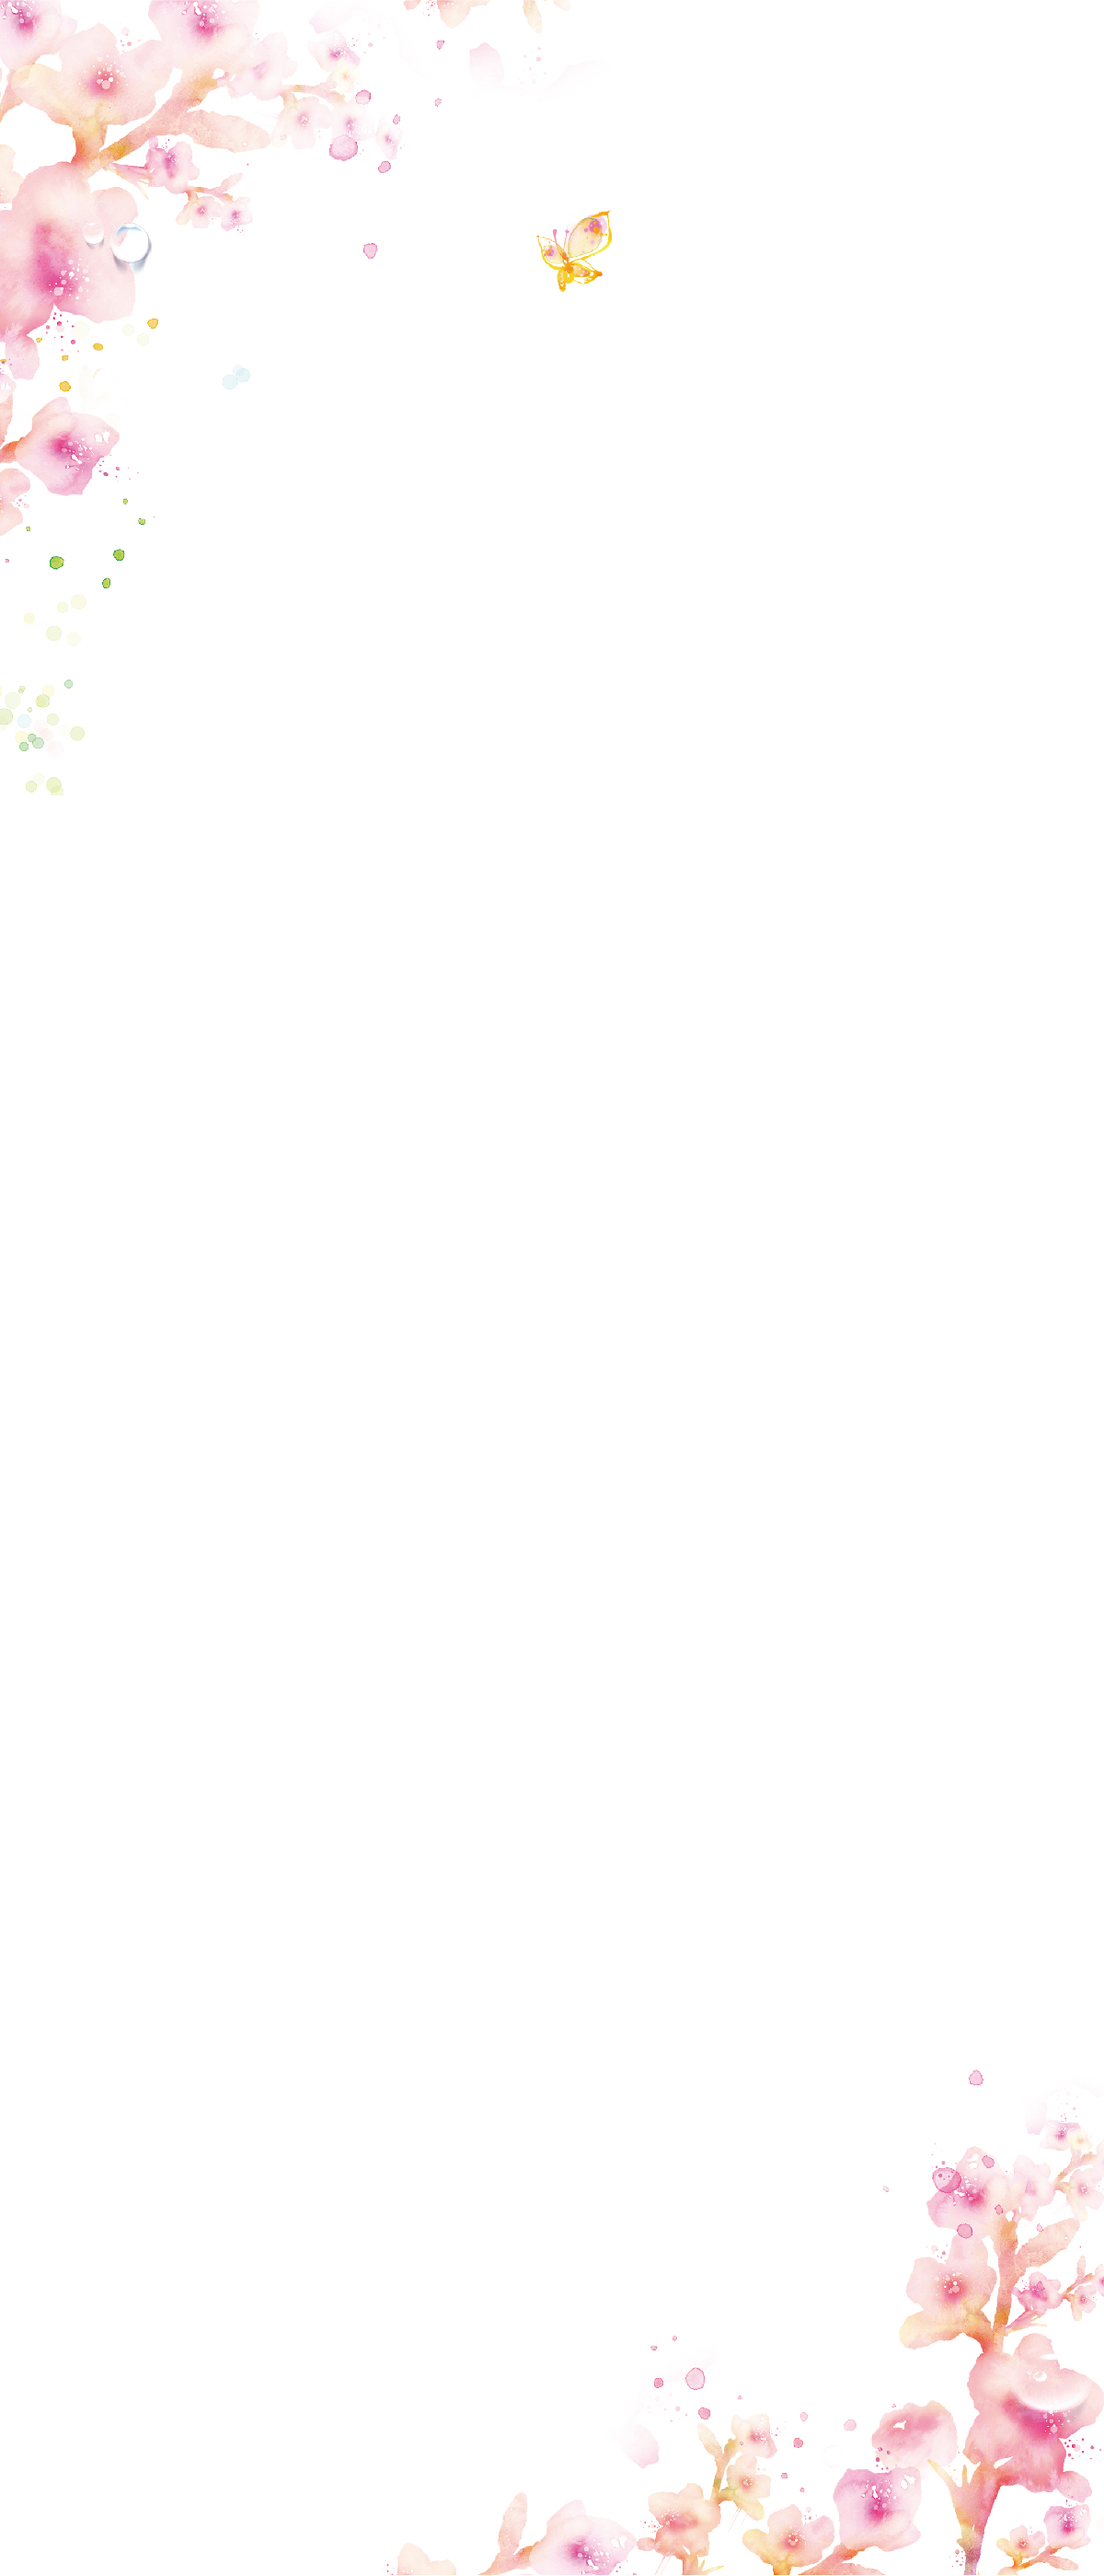
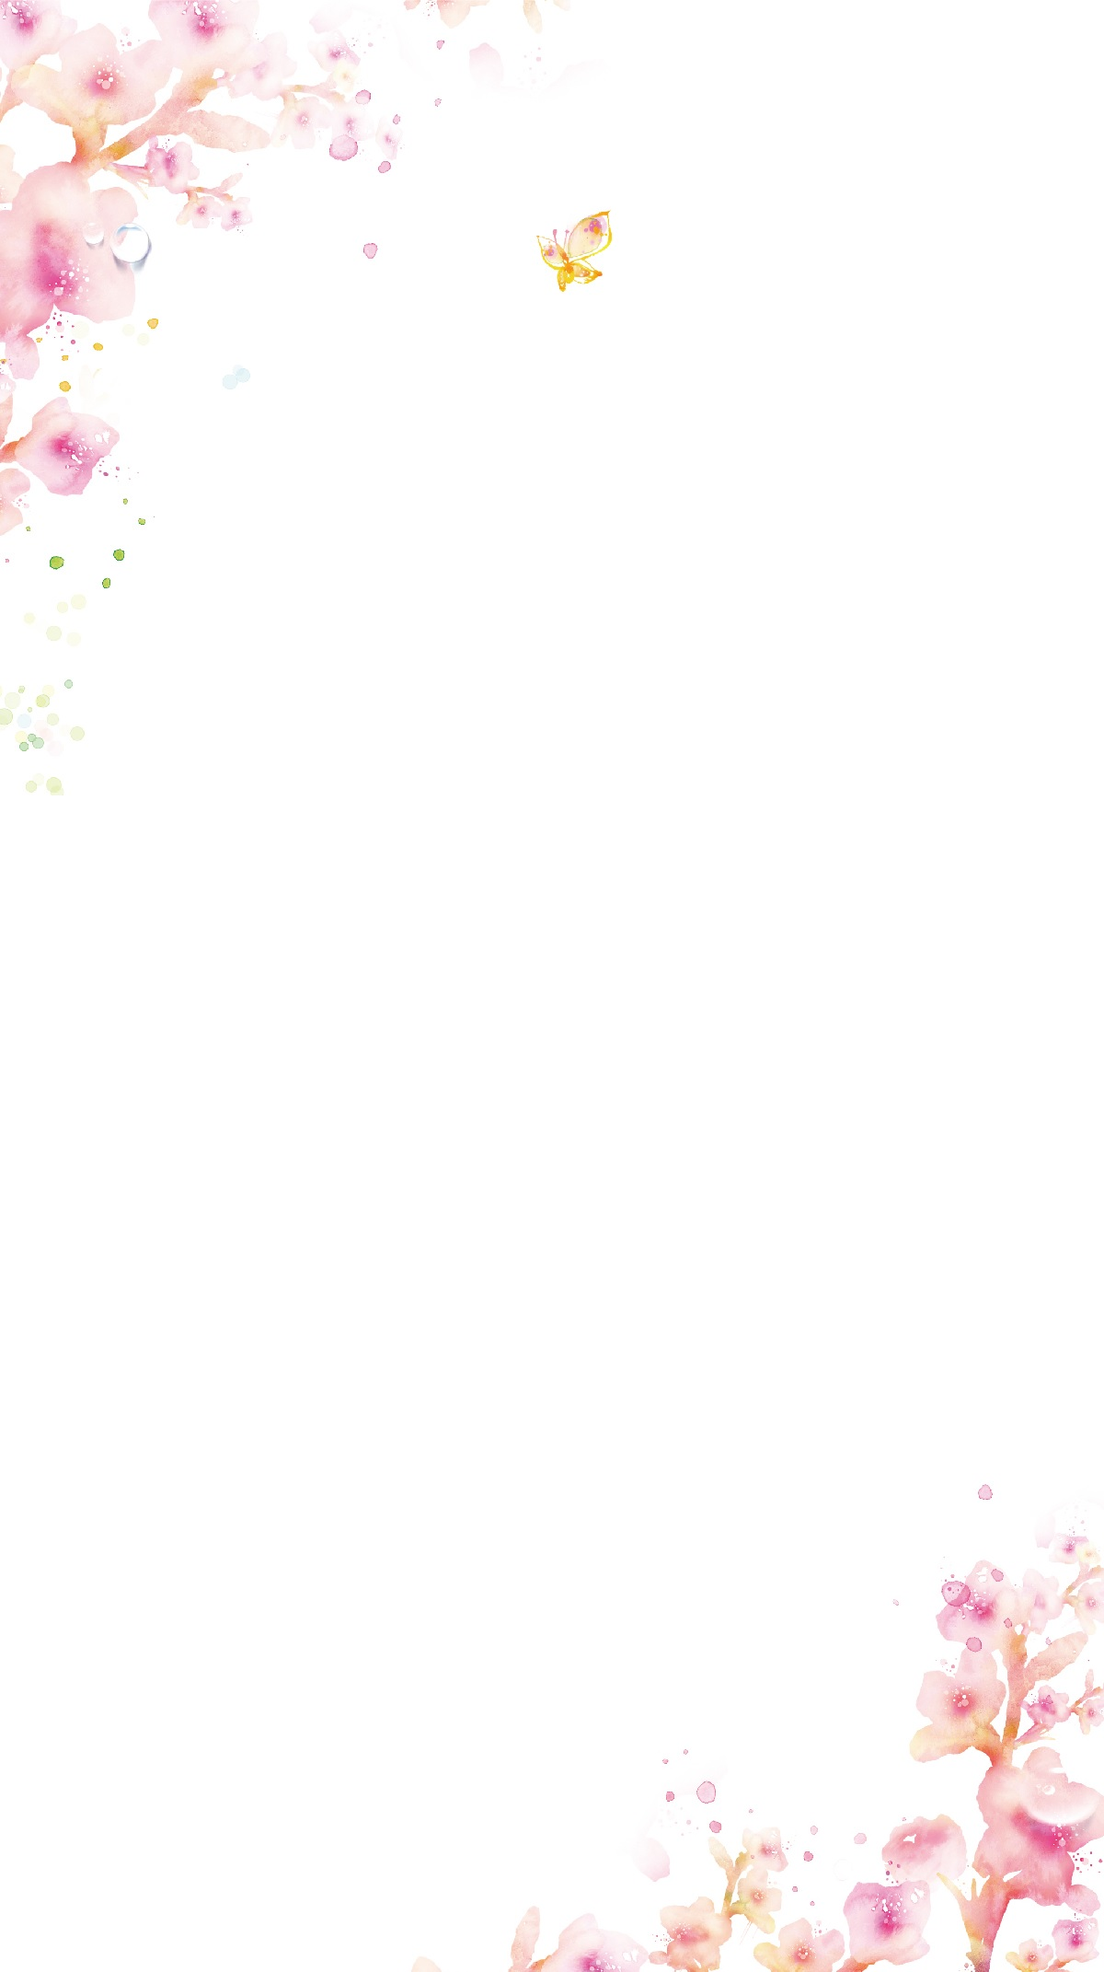
ver4.1 add "go back" button

diff --git a/css/style.css b/css/style.css
@@ -329,6 +329,7 @@ form .error input, form .error textarea {
 #home-bg {
 	background-image: url(../img/home-bg.jpg);
 	background-repeat: no-repeat;
+	background-position: bottom;
 	position: relative;
     z-index: -1;
 }
@@ -1034,111 +1035,33 @@ main img {
 
 
 /*** go back to top ***/
-@-webkit-keyframes AnimationName {
-  0% {
-    background-position: 0% 50%;
-  }
-  50% {
-    background-position: 100% 50%;
-  }
-  100% {
-    background-position: 0% 50%;
-  }
+#scroll-top {
+	position: fixed;
+    right: 10px;
+    bottom: 10px;
+    margin: 0;
+    text-decoration: none;
 }
-@-moz-keyframes AnimationName {
-  0% {
-    background-position: 0% 50%;
-  }
-  50% {
-    background-position: 100% 50%;
-  }
-  100% {
-    background-position: 0% 50%;
-  }
+#scroll-top button {
+	width: 50px;
+    height: 50px;
+    outline: none;
+    cursor: pointer;
+    border-radius: 100%;
+    border: solid 5px #FFEBEE;
+    background-color: #eeafb8;
+    color: #fff;
+    box-shadow: 0 0 1px #333;
+    display: block;
+    font-family: tahoma;
+    font-size: 11px;
+    -webkit-transition: 1s;
+    -moz-transition: 1s;
+    transition: 1s;
 }
-@keyframes AnimationName {
-  0% {
-    background-position: 0% 50%;
-  }
-  50% {
-    background-position: 100% 50%;
-  }
-  100% {
-    background-position: 0% 50%;
-  }
-}
-* {
-  box-sizing: border-box;
-}
-
-
-
-.m-backtotop {
-  -webkit-transition: all 0.3s ease-in-out;
-  -moz-transition: all 0.3s ease-in-out;
-  -ms-transition: all 0.3s ease-in-out;
-  -o-transition: all 0.3s ease-in-out;
-  transition: all 0.3s ease-in-out;
-  position: fixed;
-  bottom: -50px;
-  right: 20px;
-  width: 50px;
-  height: 50px;
-  background: #222;
-  border-radius: 25px;
-  text-align: center;
-  border: 2px solid #fff;
-  box-shadow: 0 2px 3px rgba(0, 0, 0, 0.1);
-  opacity: 0;
-  overflow: hidden;
-  color: #fff;
-}
-.m-backtotop.active {
-  bottom: 15px;
-  opacity: 1;
-}
-.m-backtotop > div {
-  -webkit-transition: all 0.3s ease-in-out;
-  -moz-transition: all 0.3s ease-in-out;
-  -ms-transition: all 0.3s ease-in-out;
-  -o-transition: all 0.3s ease-in-out;
-  transition: all 0.3s ease-in-out;
-}
-.m-backtotop > div.arrow {
-  position: absolute;
-  top: 50%;
-  left: 50%;
-  transform: translateY(-50%) translateX(-50%);
-  opacity: 1;
-}
-.m-backtotop > div.text {
-  font-size: 5px;
-  font-size: 0.5rem;
-  line-height: 10px;
-  text-transform: uppercase;
-  font-weight: 900;
-  font-family: "Open Sans", sans-serif;
-  position: absolute;
-  left: 50%;
-  top: 50%;
-  transform: translateY(50%) translateX(-50%);
-  opacity: 0;
-  margin-top: 1px;
-}
-.m-backtotop:hover {
-  transform: scale(1.1);
-  bottom: 20px;
-  cursor: pointer;
-  background: black;
-  box-shadow: 0 10px 5px rgba(0, 0, 0, 0.1);
-}
-.m-backtotop:hover > div.arrow {
-  transform: translateY(-150%) translateX(-50%);
-  opacity: 0;
-}
-.m-backtotop:hover > div.text {
-  transform: translateY(-50%) translateX(-50%);
-  opacity: 1;
+#scroll-top button:hover {
+    background-color: #eeafb8;
+    border-color: #ff3e3e;
 }
 
 /*** go back to top ***/

diff --git a/js/ScrolltoTop.js b/js/ScrolltoTop.js
@@ -1,26 +1,21 @@
-//Make sure the user has scrolled at least double the height of the browser
-var toggleHeight = $(window).outerHeight() * 2;
+$(document).ready(function(){
+	// hide #back-top first
+	$("#scroll-top").hide();
+	// fade in #back-top
+	$(function () {
+		$(window).scroll(function () {
+			if ($(this).scrollTop() > 100) {
+				$('#scroll-top').fadeIn();
+			} else {
+				$('#scroll-top').fadeOut();
+			}
+		});
+		// scroll body to 0px on click
+		$('#scroll-top button').click(function () {
+			$('body,html').animate({
+				scrollTop: 0
+			}, 800);
+		});
+	});
 
-$(window).scroll(function() {
-	if ($(window).scrollTop() > toggleHeight) {
-		//Adds active class to make button visible
-		$(".m-backtotop").addClass("active");
-		
-		//Just some cool text changes
-		$('h1 span').text('TA-DA! Now hover it and hit dat!')
-		
-	} else {
-		//Removes active class to make button visible
-		$(".m-backtotop").removeClass("active");
-		
-		//Just some cool text changes
-		$('h1 span').text('(start scrolling)')
-	}
-});
-
-
-//Scrolls the user to the top of the page again
-$(".m-backtotop").click(function() {
-	$("html, body").animate({ scrollTop: 0 }, "slow");
-	return false;
 });

diff --git a/lodging.html b/lodging.html
@@ -28,7 +28,7 @@
     </nav>
   </header>
   
-  <div id="lod-bg" class="animated fadeIn delay-3" style="animation-duration: 3s;">
+  <div id="lod-bg" class="animated fadeInUp delay-1s" style="animation-duration: 2s;">
     <div id="d0lodging"> 
       <p style="font-size: 36px; padding-top:50px; font-weight:500;">住宿推薦</p>
     </div>
@@ -139,7 +139,12 @@
       </div>
     </div>
   </div>
-
+  <a id="scroll-top" href="#top"><button>Top</button></a>
+  <script
+  src="https://code.jquery.com/jquery-3.3.1.min.js"
+  integrity="sha256-FgpCb/KJQlLNfOu91ta32o/NMZxltwRo8QtmkMRdAu8="
+  crossorigin="anonymous"></script>
+  <script src="js/ScrolltoTop.js"></script>
   <div class="clear"></div>
   <footer>
     <p>Taiwan Flower Viewing Spots</p>

diff --git a/home.html b/home.html
@@ -74,7 +74,12 @@
 	<div class="clear" style="margin:20px;"></div>
   </section>
   </div>
-  
+  <a id="scroll-top" href="#top"><button>Top</button></a>
+  <script
+  src="https://code.jquery.com/jquery-3.3.1.min.js"
+  integrity="sha256-FgpCb/KJQlLNfOu91ta32o/NMZxltwRo8QtmkMRdAu8="
+  crossorigin="anonymous"></script>
+  <script src="js/ScrolltoTop.js"></script>
   <footer>
     <p>Taiwan Flower Viewing Spots</p>
     <p>©All rights reserved.</p>

diff --git a/message.html b/message.html
@@ -143,7 +143,12 @@
       </div>
     </form>
   </div>
-  
+  <a id="scroll-top" href="#top"><button>Top</button></a>
+  <script
+  src="https://code.jquery.com/jquery-3.3.1.min.js"
+  integrity="sha256-FgpCb/KJQlLNfOu91ta32o/NMZxltwRo8QtmkMRdAu8="
+  crossorigin="anonymous"></script>
+  <script src="js/ScrolltoTop.js"></script>
   <footer>
     <p>Taiwan Flower Viewing Spots</p>
     <p>©All rights reserved.</p>

diff --git a/south.html b/south.html
@@ -134,7 +134,12 @@
  <div id="p04">
  </div>
  </div>
-  
+  <a id="scroll-top" href="#top"><button>Top</button></a>
+  <script
+  src="https://code.jquery.com/jquery-3.3.1.min.js"
+  integrity="sha256-FgpCb/KJQlLNfOu91ta32o/NMZxltwRo8QtmkMRdAu8="
+  crossorigin="anonymous"></script>
+  <script src="js/ScrolltoTop.js"></script>
   <div class="clear"></div>
   <footer>
     <p>Taiwan Flower Viewing Spots</p>

diff --git a/north.html b/north.html
@@ -130,6 +130,12 @@
   <div id="p04">
   </div>
   </div>
+  <a id="scroll-top" href="#top"><button>Top</button></a>
+  <script
+  src="https://code.jquery.com/jquery-3.3.1.min.js"
+  integrity="sha256-FgpCb/KJQlLNfOu91ta32o/NMZxltwRo8QtmkMRdAu8="
+  crossorigin="anonymous"></script>
+  <script src="js/ScrolltoTop.js"></script>
   <div class="clear"></div>
   <footer>
     <p>Taiwan Flower Viewing Spots</p>

diff --git a/east.html b/east.html
@@ -129,6 +129,12 @@
  <div id="p04">
  </div>
   </div>
+  <a id="scroll-top" href="#top"><button>Top</button></a>
+  <script
+  src="https://code.jquery.com/jquery-3.3.1.min.js"
+  integrity="sha256-FgpCb/KJQlLNfOu91ta32o/NMZxltwRo8QtmkMRdAu8="
+  crossorigin="anonymous"></script>
+  <script src="js/ScrolltoTop.js"></script>
   <div class="clear"></div>
   <footer>
     <p>Taiwan Flower Viewing Spots</p>

diff --git a/west.html b/west.html
@@ -126,6 +126,12 @@
  <div id="p04">
  </div>
   </div>
+  <a id="scroll-top" href="#top"><button>Top</button></a>
+  <script
+  src="https://code.jquery.com/jquery-3.3.1.min.js"
+  integrity="sha256-FgpCb/KJQlLNfOu91ta32o/NMZxltwRo8QtmkMRdAu8="
+  crossorigin="anonymous"></script>
+  <script src="js/ScrolltoTop.js"></script>
   <div class="clear"></div>
   <footer>
     <p>Taiwan Flower Viewing Spots</p>

diff --git a/about.html b/about.html
@@ -171,6 +171,12 @@
     </div>
   </div>
   </div>
+  <a id="scroll-top" href="#top"><button>Top</button></a>
+  <script
+  src="https://code.jquery.com/jquery-3.3.1.min.js"
+  integrity="sha256-FgpCb/KJQlLNfOu91ta32o/NMZxltwRo8QtmkMRdAu8="
+  crossorigin="anonymous"></script>
+  <script src="js/ScrolltoTop.js"></script>
   <div class="clear"></div>
   <footer>
     <p>Taiwan Flower Viewing Spots</p>
